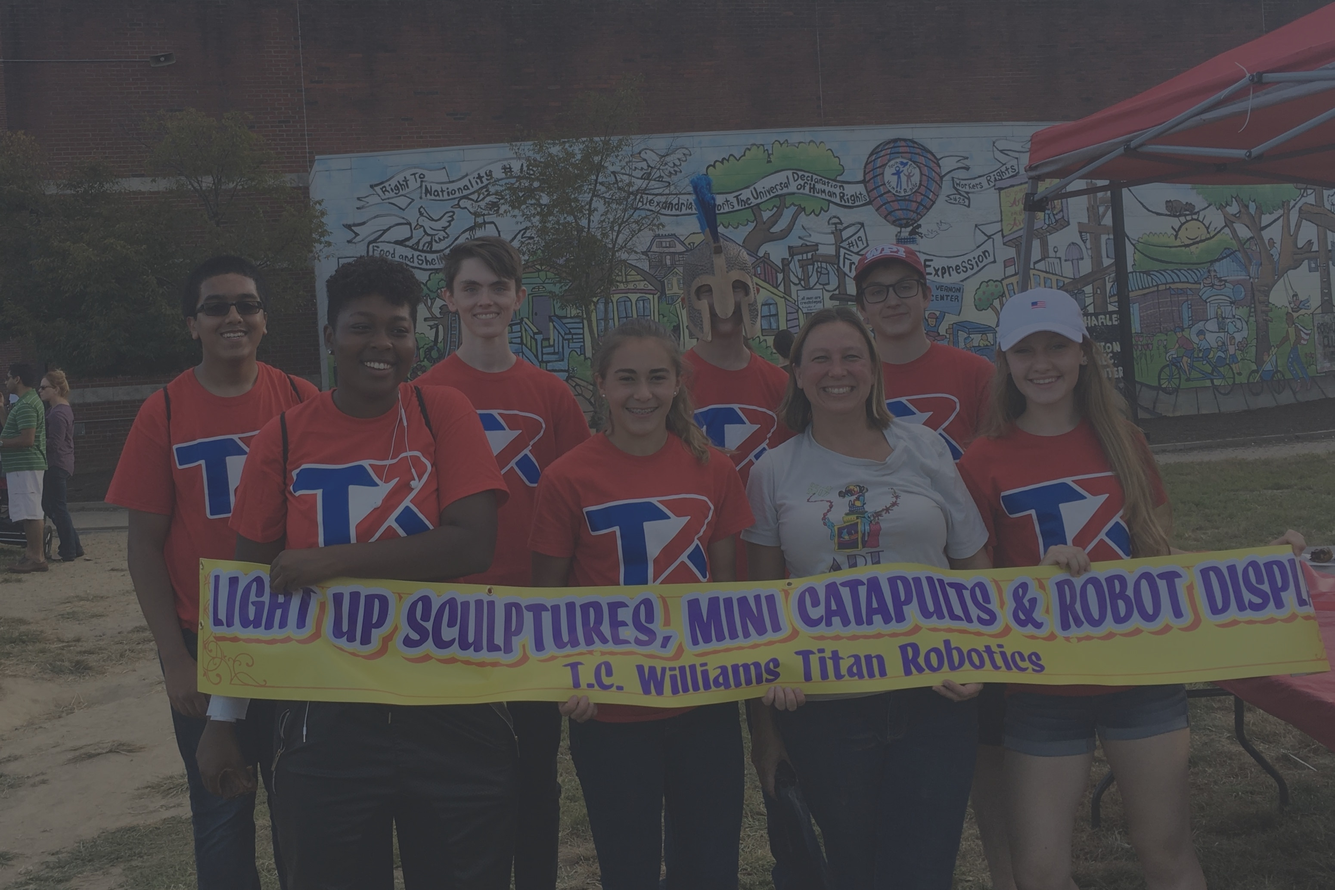
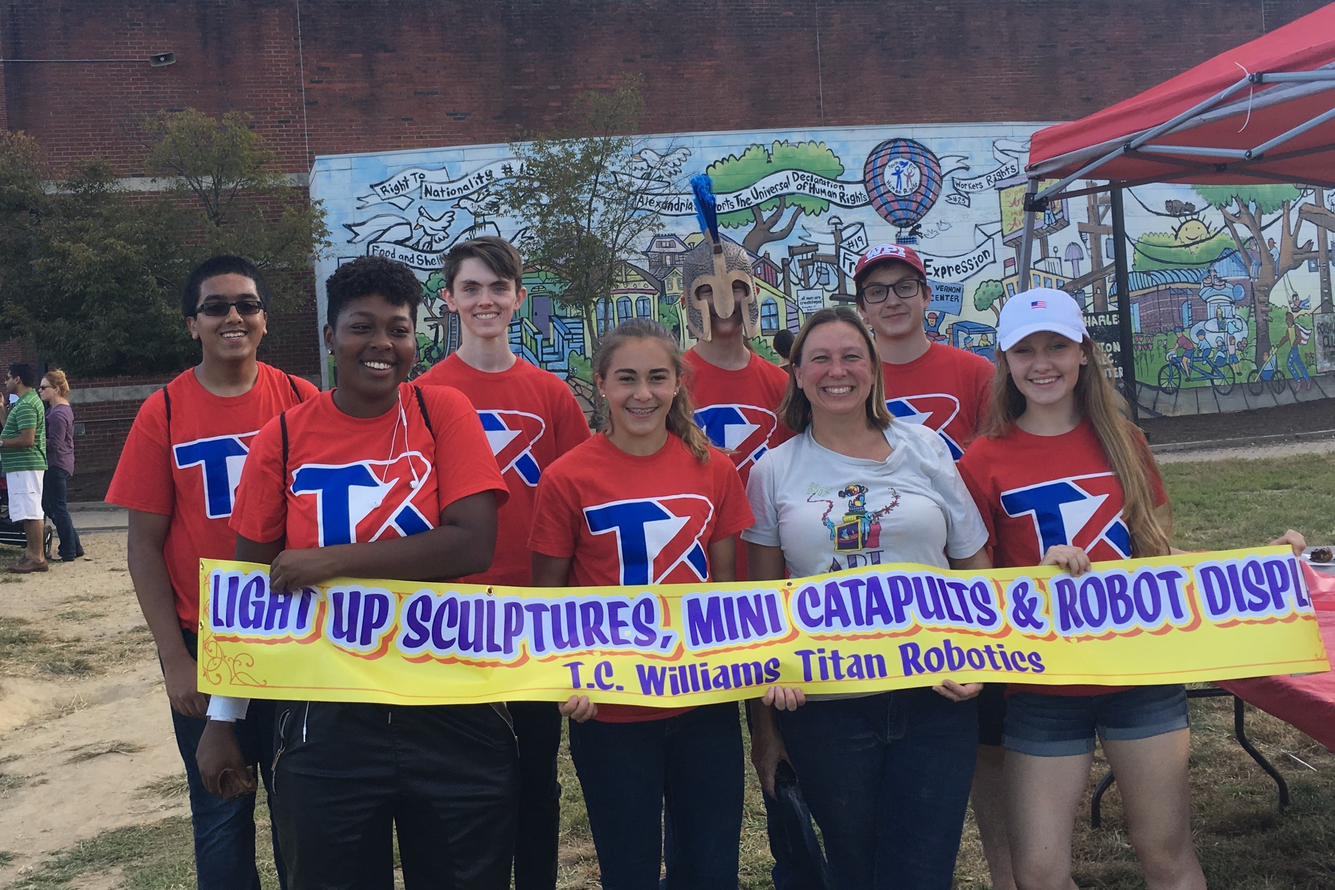
Revert "Update Outreach"
This reverts commit 05750ea95768643dc5e7fd66b1cf57c44cbb958b.

diff --git a/assets/styles/outreach.scss b/assets/styles/outreach.scss
@@ -26,29 +26,31 @@
 .content {
   padding-left: 150px;
   padding-right: 150px;
-  padding-top: 100px;
+  padding-top: 640px;
   color: #fff;
   font-family: 'Roboto', sans-serif;
   font-size: 18px;
   position: relative;
-  text-shadow: 6px 6px 8px black;
-  box-shadow: 0;
+  box-shadow: 0 12px 80px 0 white, 0 4px 20px 0 white;
+  background-color: rgba(0, 0, 0, 0.6);
+  margin-bottom: 15%;
+  text-shadow: 2px 2px 4px black;
 }
 
 
+
 div .outreach-brief {
+  padding: 2px 10px 5px;
   margin-bottom: 50px;
   text-align: justify;
-  padding-left: 5%;
-  padding-right: 5%;
 }
 
 .event-card-collection {
   margin-left: 5%;
   margin-right: 5%;
   width: 100%;
-  padding-left: 5%;
-  padding-right: 20%;
+  padding-left: 15%;
+  padding-right: 25%;
 }
 
 .event-card {
@@ -56,7 +58,11 @@ div .outreach-brief {
   text-align: justify;
 }
 
-
+.event-card img {
+  border-style: solid;
+  border-width: 4px;
+  border-color: white;
+}
 
 .event-card a {
   color: #8eb9ff;
@@ -90,30 +96,11 @@ div .outreach-brief {
   p {
     font-size: 90%;
   }
-
-  div .outreach-brief {
-    text-align: center;
-  }
-
-  .event-card {
-    text-align: center;
-  }
 }
 @media (max-width: 461px) {
   .content {
-    padding-top: 50%;
-    padding-left:0%;
-    padding-right:0%;
-    width:100%;
+    padding-top: 150px;
   }
-
-div .outreach-brief {
-  text-align: center;
-}
-
-.event-card {
-  text-align: center;
-}
 
   .medium-image,
   .small-image {
@@ -124,7 +111,7 @@ div .outreach-brief {
 
 body {
   height: 100%;
-  padding-top:70px;
+  padding-top:100px;
 }
 
 .background {
@@ -133,47 +120,46 @@ body {
   background-size: cover;
   background-position: center;
   background-repeat: no-repeat;
-
   width: 100%;
   transition: background-image 0.5s ease;
 }
 
-// .Lemonaide {
-//   background-image: url("/photos/Outreach-Images/Lemonaide.JPG");
-//   background-attachment: fixed;
-//   background-size: cover;
-//   background-position: center;
-//   background-repeat: no-repeat;
-//   width: 100%;
-//   transition: background-image 0.5s ease;
-// }
-//
-// .NOVA {
-//   background-image: url("/photos/Outreach-Images/NVCC_2.JPG");
-//   background-attachment: fixed;
-//   background-size: cover;
-//   background-position: center;
-//   background-repeat: no-repeat;
-//   width: 100%;
-//   transition: background-image 0.5s ease;
-// }
-//
-// .BN {
-//   background-image: url("/photos/Outreach-Images/IMG_3172.JPG");
-//   background-attachment: fixed;
-//   background-size: cover;
-//   background-position: center;
-//   background-repeat: no-repeat;
-//   height: 100%;
-//   transition: background-image 0.5s ease;
-// }
-//
-// .NOS {
-//   background-image: url("/photos/Outreach-Images/IMG_3126.JPG");
-//   background-attachment: fixed;
-//   background-size: cover;
-//   background-position: center;
-//   background-repeat: no-repeat;
-//   height: 100%;
-//   transition: background-image 0.5s ease;
-// }
+.Lemonaide {
+  background-image: url("/photos/Outreach-Images/Lemonaide.JPG");
+  background-attachment: fixed;
+  background-size: cover;
+  background-position: center;
+  background-repeat: no-repeat;
+  width: 100%;
+  transition: background-image 0.5s ease;
+}
+
+.NOVA {
+  background-image: url("/photos/Outreach-Images/NVCC_2.JPG");
+  background-attachment: fixed;
+  background-size: cover;
+  background-position: center;
+  background-repeat: no-repeat;
+  width: 100%;
+  transition: background-image 0.5s ease;
+}
+
+.BN {
+  background-image: url("/photos/Outreach-Images/IMG_3172.JPG");
+  background-attachment: fixed;
+  background-size: cover;
+  background-position: center;
+  background-repeat: no-repeat;
+  height: 100%;
+  transition: background-image 0.5s ease;
+}
+
+.NOS {
+  background-image: url("/photos/Outreach-Images/IMG_3126.JPG");
+  background-attachment: fixed;
+  background-size: cover;
+  background-position: center;
+  background-repeat: no-repeat;
+  height: 100%;
+  transition: background-image 0.5s ease;
+}

diff --git a/_pages/outreach.html b/_pages/outreach.html
@@ -5,6 +5,35 @@ stylesheets:
     - outreach
 ---
 <script src="https://ajax.googleapis.com/ajax/libs/jquery/2.1.4/jquery.min.js"></script>
+<script>
+  $(window).scroll(function() {
+    var scroll = $(window).scrollTop();
+
+    if (scroll >= 600) {
+      $("body").addClass("Lemonaide");
+    } else {
+      $("body").removeClass("Lemonaide");
+    }
+
+    if (scroll >= 800) {
+      $("body").addClass("NOVA");
+    } else {
+      $("body").removeClass("NOVA");
+    }
+
+    if (scroll >= 1000) {
+      $("body").addClass("BN");
+    } else {
+      $("body").removeClass("BN");
+    }
+
+    if (scroll >= 1200) {
+      $("body").addClass("NOS");
+    } else {
+      $("body").removeClass("NOS");
+    }
+  });
+</script>
 
 <body class="background">
   <div class="content">
@@ -60,4 +89,8 @@ stylesheets:
     </div>
   </div>
 </body>
+</div>
+</main>
+</body>
+
 </html>

diff --git a/assets/styles/header.scss b/assets/styles/header.scss
@@ -305,3 +305,8 @@ nav {
 .festive{
 	background-color: #c00917;
 }
+
+.amazonSmile{
+width:8em;
+float:right;
+}
